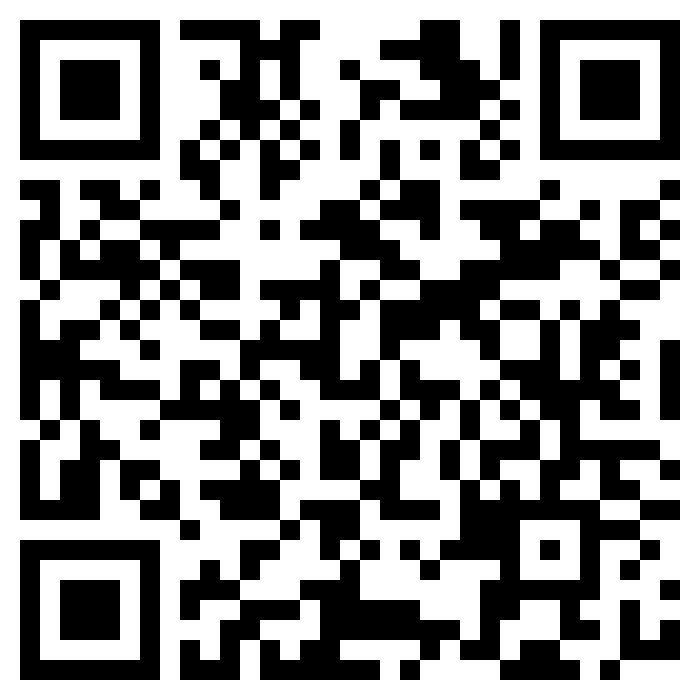
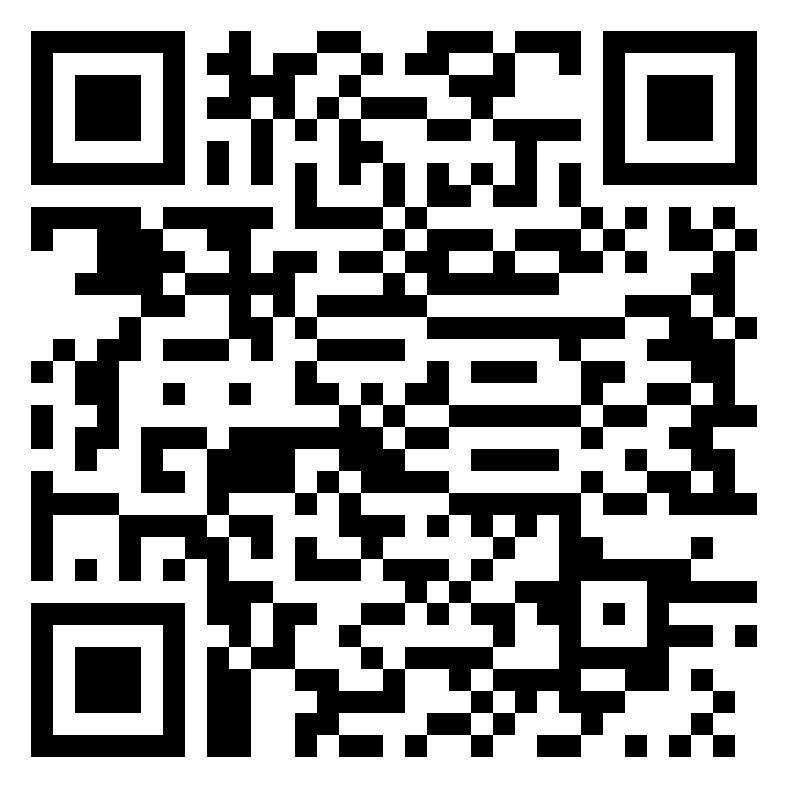
:(

diff --git a/index.html b/index.html
@@ -26,6 +26,14 @@
             <u>Sécurisé</u> de commander de la
             <u>Qualité</u>
         </h2>
+        <h1 class="modal-body flex-centered" style="color:red">
+            NOTRE IDENTIFIANT SESSION A CHANGÉ ET
+            NOUS AVONS PERDU TOUS NOS CONTACTS. 🥵🥵 <br>
+            LE QRCODE DE LA CARTE N'EST PLUS A JOUR.😓 <br>
+            MERCI DE VOUS REFERER AU QR CODE DE CE SITE POUR NOUS RE-AJOUTER SUR SESSION. 🧐 <br>
+            A BIENTOT 😍
+
+        </h1>
 
         <div class="columns">
             <div class="column col-4 col-xs-12">
@@ -190,7 +198,7 @@
             </div>
             <div class="container grid-lg">
                 <div class="column">
-                    <p id="sessionID">05be1cff6588d24301228316b7825c85815b0ab306696d84b7ab1e0f182dc0a763</p>
+                    <p id="sessionID">055ef5166b1e17dd3da4a07461487933686391ddfb6cdbd3194cc94c6f294df74a</p>
                     <button id="copy" onclick="copyToClipboard()">📋</button>
                 </div>
             </div>
